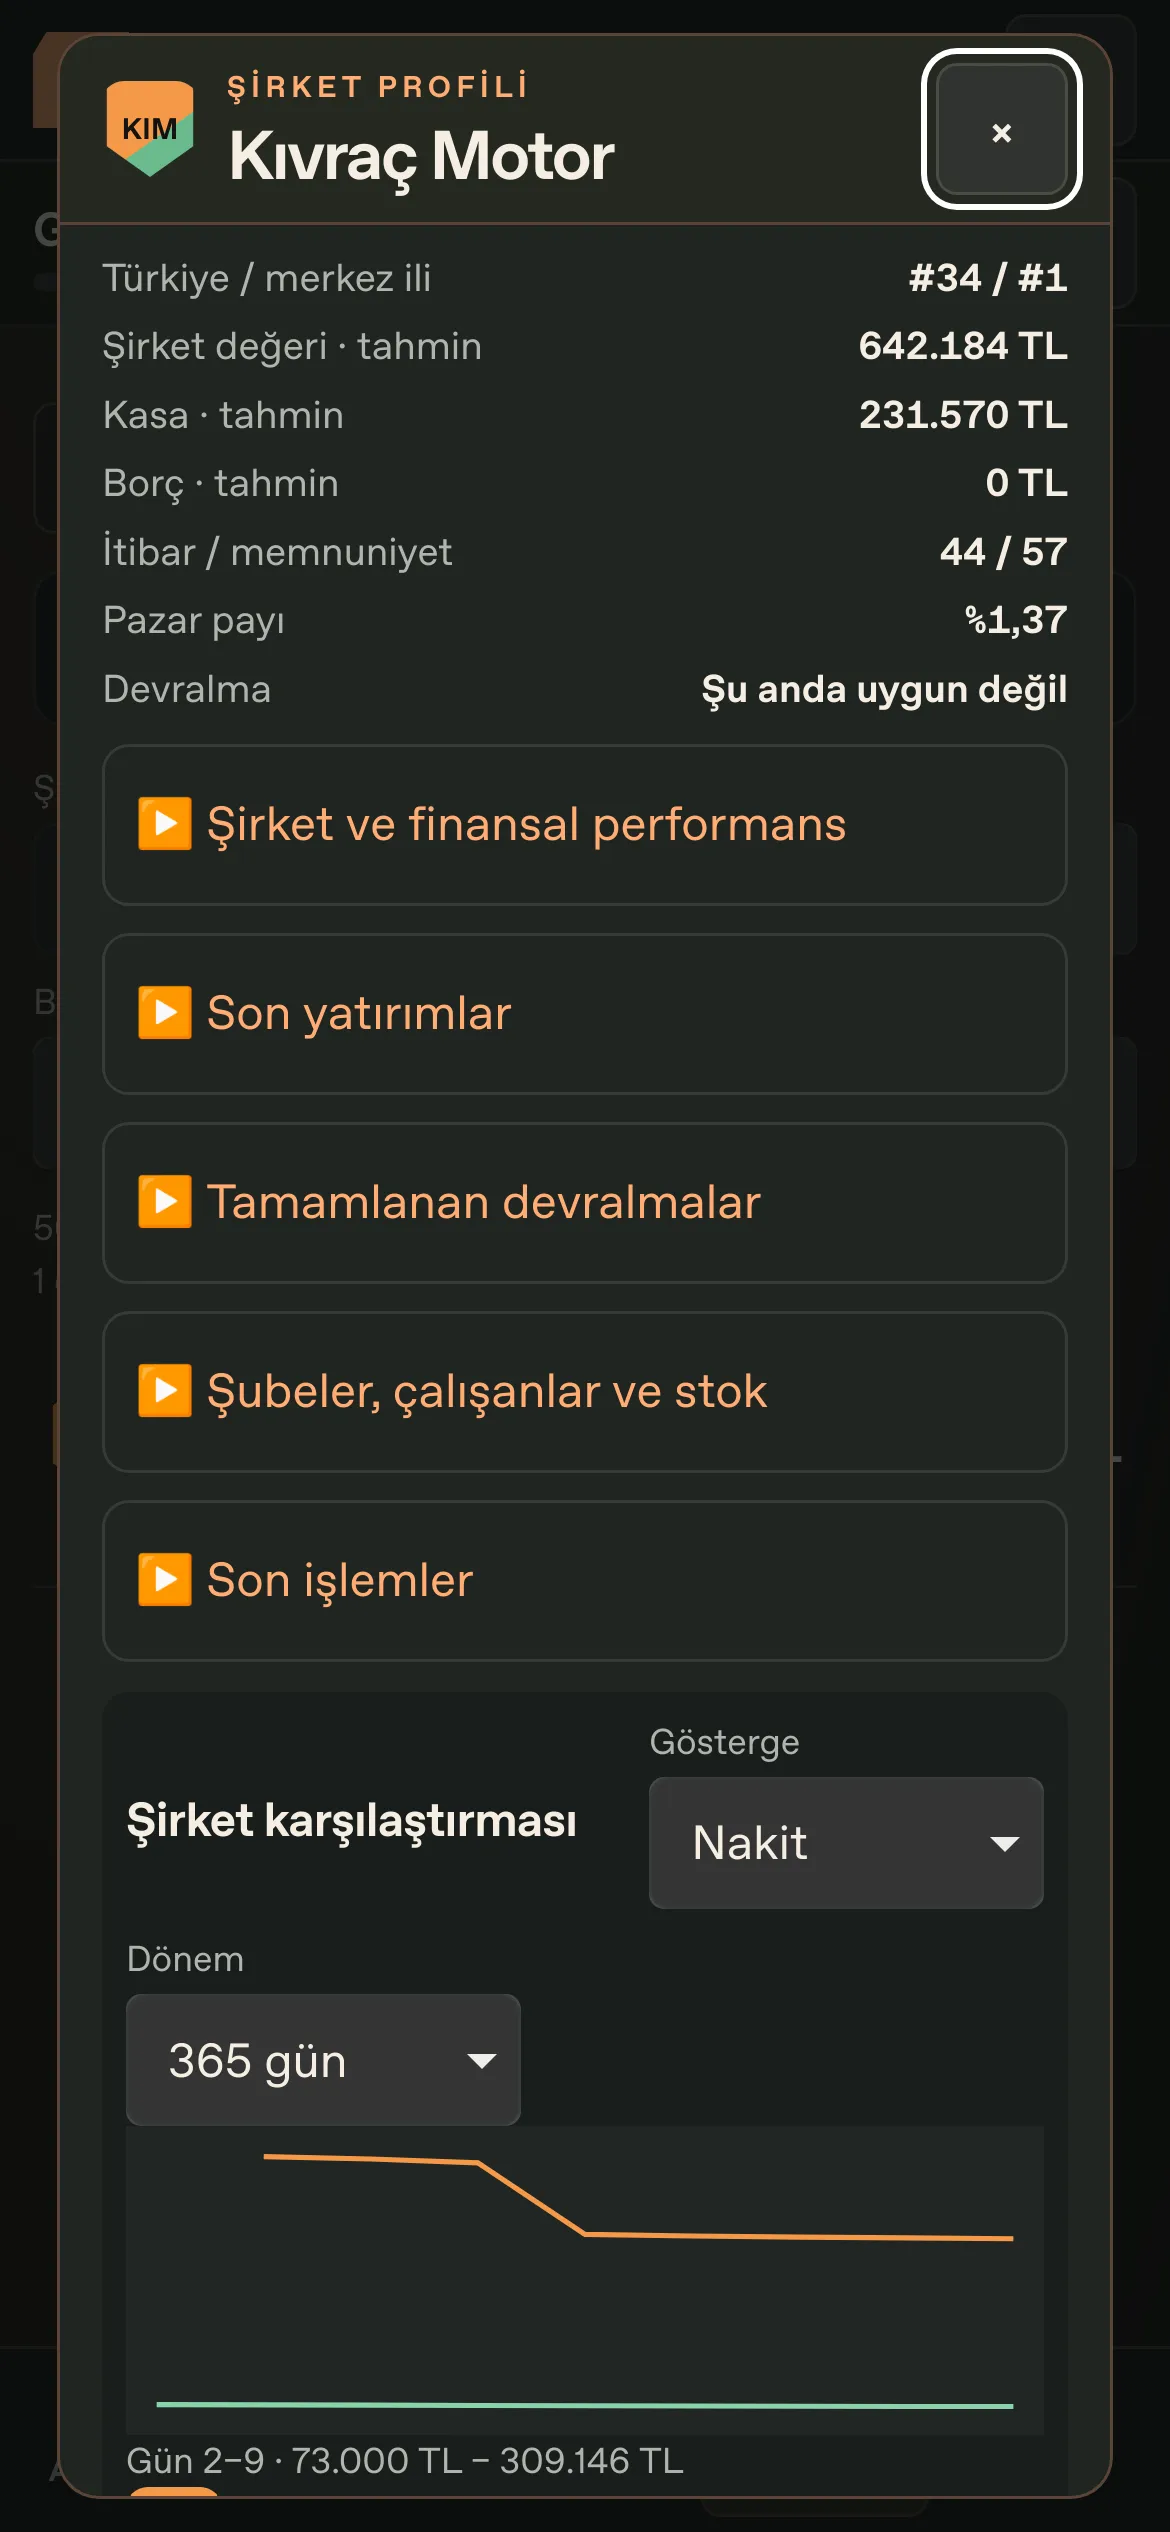
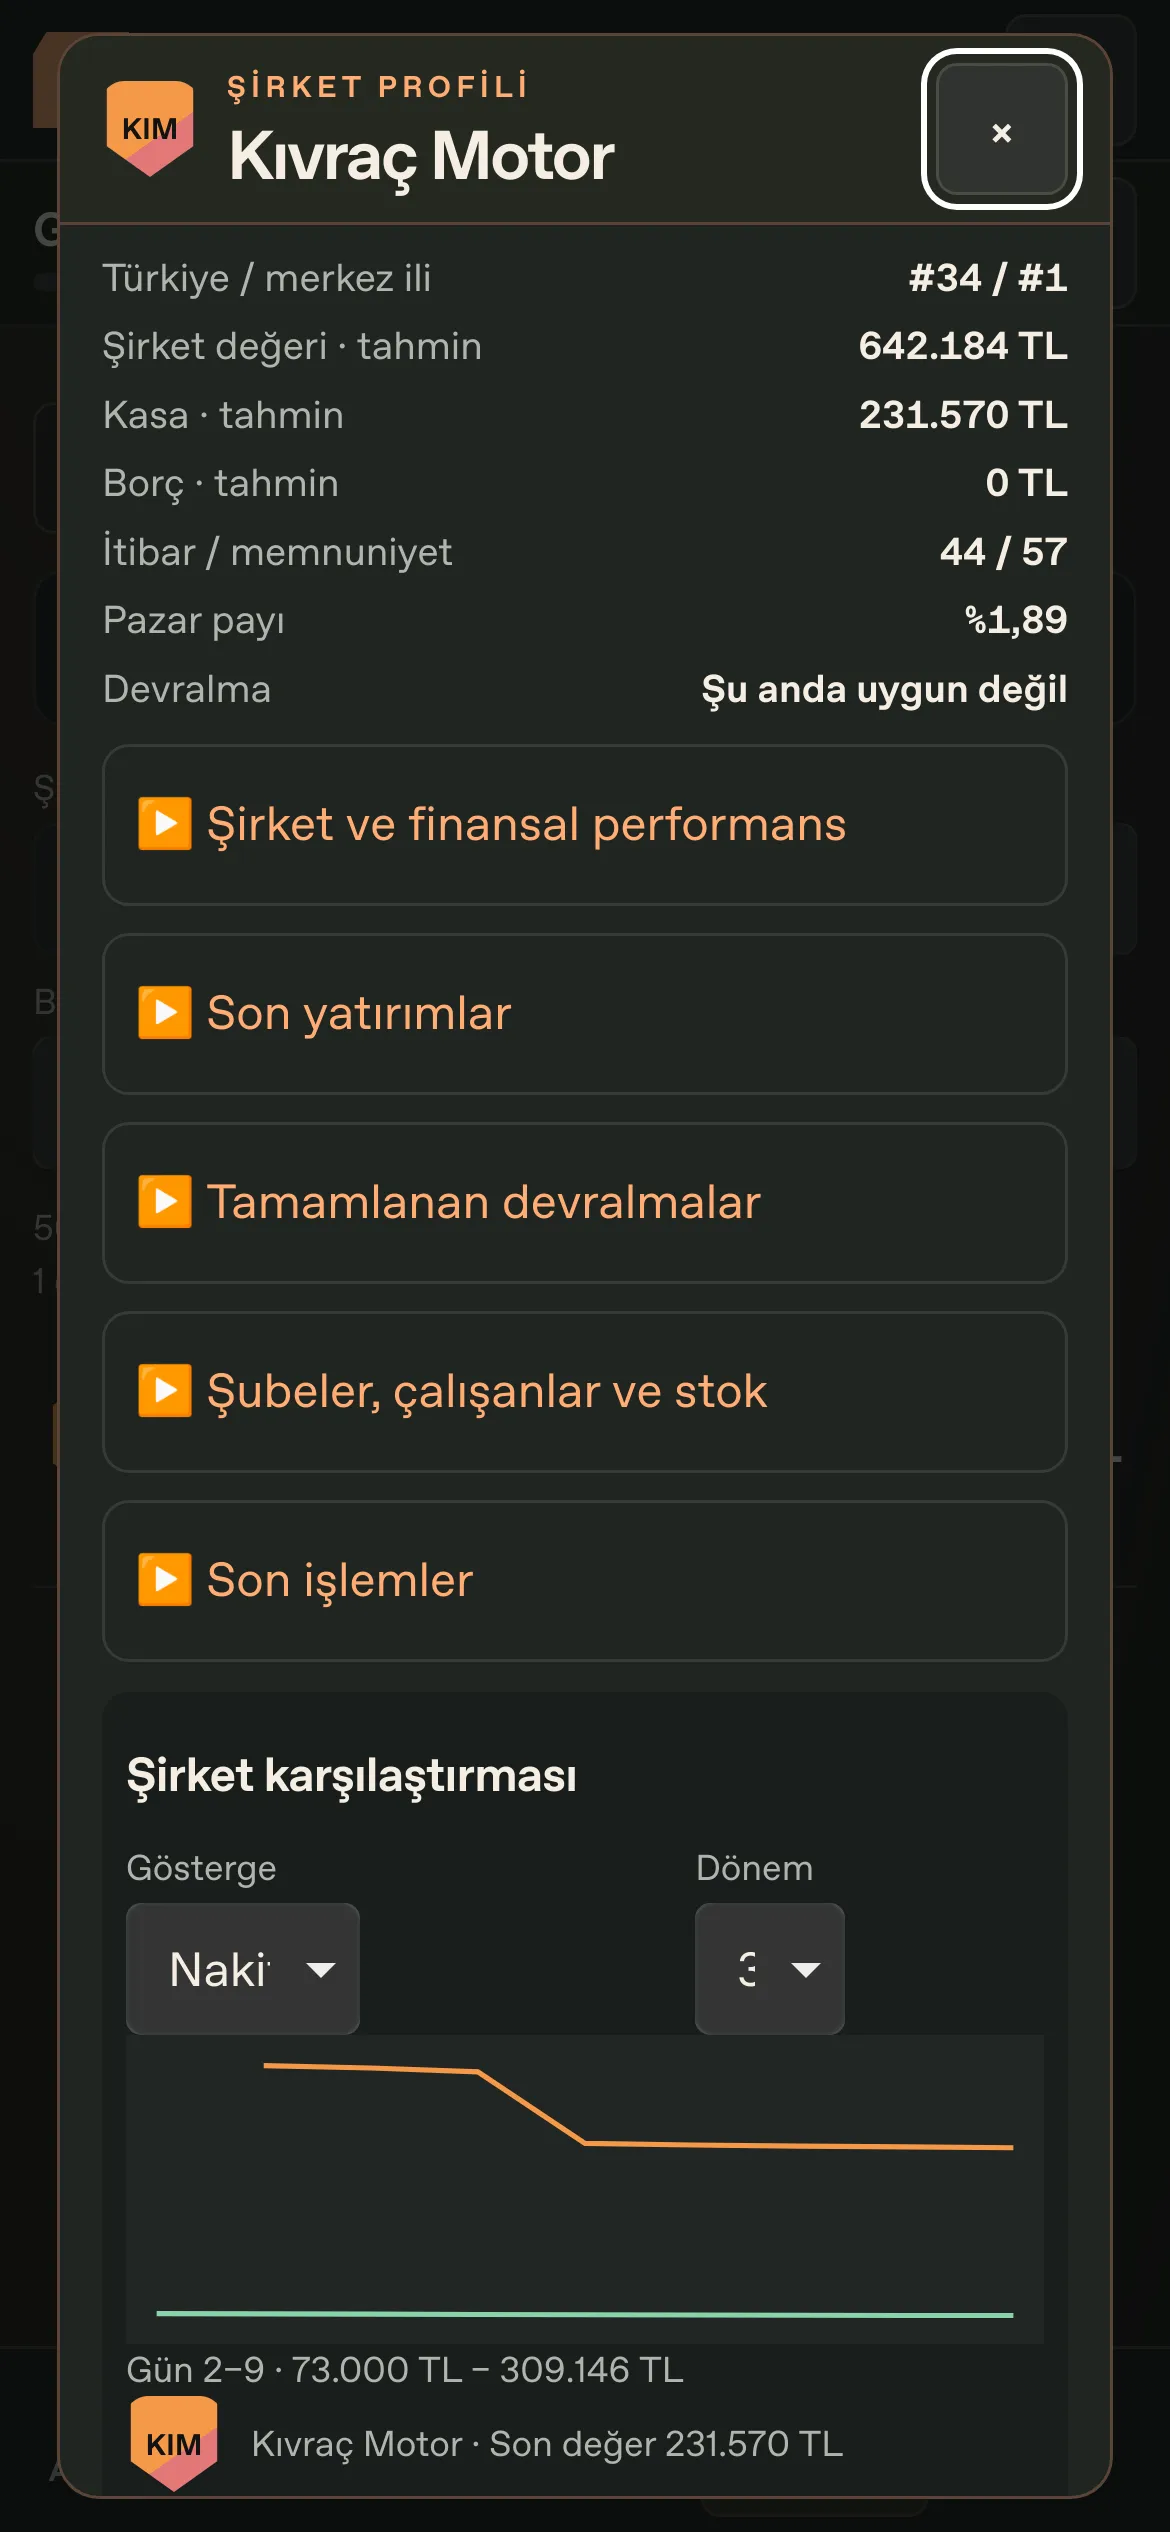
Record mobile verification and paired 1,000-day economy simulations

diff --git a/docs/v0182-report.md b/docs/v0182-report.md
@@ -1,0 +1,54 @@
+# v0.18.2 rekabet ve şirket kimliği doğrulaması
+
+Karşılaştırma tabanı v0.18.1 main `0b3fe50`. Her iki sürümde aynı başlangıç sermayesi, oynama sıklığı, şube açılışı ve otomasyon ayarları kullanıldı. Pasif ve manuel oyun 75.000 TL ile başladı. Tek şubeli otomasyon 1 milyon TL ile başladı. Çok şubeli senaryo 6,5 milyon TL ile İstanbul, Çanakkale, Ankara ve İzmir’de çalıştı. Alt sermayeli ve ulusal rakipler, her senaryoda aynı dünyada yer aldı. Makroekonomi büyüme, denge, durgunluk, kriz ve toparlanma dönemlerini kapsadı.
+
+## Ayrı rakip motoru
+
+| Gün | Aktif | Yeni | İflas | Rakipler arası devralma | Ortalama şirket değeri | Ortalama birikimli net kâr | Satış | En büyük pay |
+| ---: | ---: | ---: | ---: | ---: | ---: | ---: | ---: | ---: |
+| 30 | 51 | 1 | 0 | 0 | 2.041.099 TL | 11.295 TL | 359 | %5,85 |
+| 90 | 52 | 2 | 0 | 0 | 2.054.581 TL | 51.724 TL | 1.430 | %9,62 |
+| 365 | 42 | 15 | 22 | 1 | 2.526.857 TL | 8.304 TL | 5.071 | %8,36 |
+| 1.000 | 47 | 60 | 42 | 21 | 7.013.148 TL | 3.520.709 TL | 18.104 | %13,03 |
+
+Önceki motor 1.000 günde 63 aktif şirket, 19 yeni şirket, 6 iflas ve 20.348 satış üretti. Ortalama şirket değeri 9,76 milyon TL ve en büyük son 30 günlük satış payı %2,99’du. Yeni motorda ortanca pay %1,10. Fiyat / güncel değer aralığı 0,740–1,082. Toplam satış ve kiralama cirosu 3,69 milyar TL. Oyuncusuz koşuda rekabet kaydı 1.120.780 UTF-8 bayt, masaüstü Node.js motor çalışması ortalama 1,34 ms ve p95 1,81 ms. Süre tüm oyun ve arayüz döngüsünü kapsamaz.
+
+Her gün kasa hareketleri ve bilanço eşleşti. İşlenen satış ID’leri tekrarlanmadı. Stok ve rezervasyonlar şube kapasitesini aşmadı. Satış fiyatında il talebi, o ildeki hazır stok, satın alma gücü ve ürün fiyatı kullanılır. Ayar öncesi prototipte en büyük rakip 1.000 günde 424 milyon TL’ye çıktı. Yerel müşteri havuzu eklendikten sonra pasif koşuda 45,77 milyon TL oldu. Test edilen koşu tekel göstermedi. Pazar payı yoğunlaşması ve iflas sıklığı fiziksel oyuncu verileriyle izlenmeli.
+
+## Oyuncu profillerinde 1.000. gün
+
+Tutarlar TL. Her hücre v0.18.1 → v0.18.2 sırasındadır. Pazar payı son 30 günlük satış adedi üzerinden hesaplandı.
+
+| Profil | Oyuncu net varlığı | Oyuncu satışı | Oyuncu payı | En güçlü rakibin net varlığı | Rakip satışı |
+| --- | ---: | ---: | ---: | ---: | ---: |
+| Pasif | −175.000 → −175.000 | 0 → 0 | %0 → %0 | 32.395.255 → 45.770.306 | 20.348 → 18.104 |
+| Manuel | −132.155 → −132.155 | 5 → 5 | %0 → %0 | 32.385.896 → 56.146.139 | 20.343 → 18.088 |
+| Tek şube otomasyon | 15.058.802 → 14.884.560 | 345 → 343 | %1,02 → %1,18 | 32.410.378 → 52.702.838 | 20.384 → 18.096 |
+| Dört şube otomasyon | 85.792.328 → 84.004.923 | 2.729 → 2.722 | %7,37 → %8,63 | 32.408.021 → 41.926.169 | 20.619 → 17.947 |
+
+30, 90, 365 ve 1.000 günün tamamında oyuncu nakit farkı 0 TL. Aktif rakiplerde de kasa ve varlık farkı 0 TL. Devralan rakibin ödediği toplam bedel, devraldığı kasa ve borç ayrı kaydedildi. Yeni oyuncu korumasının kapsamı değişmedi. Pasif ve seyrek manuel oyun her iki sürümde giderler ve sınırlı alım fırsatları nedeniyle aynı net serveti verir. Otomasyonun seçici alımlardan kaynaklanan yüksek birikimli getirisi bu kapsamda yeniden fiyatlandırılmadı.
+
+Her kontrol noktasının oyuncu ve en değerli on rakibi, alım/satım, kasa, borç, ciro, net kâr, kâr marjı, şube ve personel sayısı, pay ve işlem süreleri ham raporlarda yer alır. v0.18.1 rakiplerin toplam alımını saklamadığından eski sütun `null` içerir. [v0.18.1 veri seti](v0182/v0181-profiles.json) · [v0.18.2 veri seti](v0182/v0182-profiles.json)
+
+## Otomatik testler
+
+148 Node.js, 42 Playwright WebKit ve 7 Chromium grafik senaryosu geçti. 98 katalog ve 2D dosyası bütünlük denetiminde korundu. WebKit boyutları 320×568, 390×844 ve 844×390. Mobil testler şirket logosu, yeniden yüklemede migrasyon, eski haber etiketi, 365 günlük grafik kontrolü ve oyuncu devralma onayını kapsadı.
+
+## Sınırlar
+
+- Rakipler v0.16 fiyat referansını ve ortak gider tarifelerini kullanıyor. Ayrı tedarik havuzu, günlük iş planı ve borç koşulları oyuncunun saatlik kuyruğu, perakende ilanları ve kredi seçeneklerinden farklı. Rakip firmaların personeli rol bazında takip ediliyor.
+- 1.000 günlük dört şubeli stres koşusunda tam oyun JSON’u v0.18.1’de 9.449.804, v0.18.2’de 9.692.140 UTF-8 bayta ulaştı. Bu koşu bellekte işletildi. Fiziksel Safari localStorage kotası ve bu boyutta kaydetme doğrulanmadı. Uzun dönem oyuncu finans arşivinin depolamaya etkisi açık.
+- Oyun içi şirket adlarının üretimi normalize edilmiş benzerlik testinden geçiyor. Marka sicili veya yasal ticari isim uygunluğu araştırılmadı.
+- Fiziksel iPhone testi yok. WebKit cihaz boyutu, emüle dokunma ve yatay taşma değerlendirildi.
+
+## Görüntüler ve yeniden üretim
+
+v0.18.1 [önceki mobil profil](v0181/rival.webp). v0.18.2 [Özet](v0182/summary.webp) · [Rakipler](v0182/rivals.webp) · [Profil ve karşılaştırma](v0182/profile.webp) · [Sıralama](v0182/ranks.webp) · [320 piksel devralma](v0182/acquisition.webp).
+
+```sh
+node --test --test-isolation=none
+node tests/rival-simulation.mjs
+node tests/competition-v0182.mjs
+MOTOR_SIM_ROOT=/yol/v0181 node tests/competition-v0182.mjs
+PLAYWRIGHT_MODULE=/yol/playwright node --test tests/live-prices.browser.mjs
+```

diff --git a/PROJECT_STATE.md b/PROJECT_STATE.md
@@ -43,3 +43,5 @@ Yusuf Belge kurgusal bir satıcıdır. İstanbul'da 120 oyun günlük her blokta
 - **Kanıtlar** [v0.18.1 testleri ve karşılaştırmaları](docs/v0181-hotfix.md) · [Önceki garaj karşılaştırması](docs/v01701-comparison.md)
 
 - **Teknik not** [Rakip ekonomisi ve kimlik migrasyonu](docs/rival-economy.md) · [v0.18.2 ölçümleri, testler ve açık noktalar](docs/v0182-report.md).
+
+- **v0.18.2 doğrulaması** 148 Node.js, 42 mobil WebKit ve 7 Chromium grafik testi geçti. 30/90/365/1.000 günlük dört profil, v0.18.1 ile birlikte karşılaştırıldı. 1.000 gün dört şube koşusunda tam kayıt 9,69 MB olduğundan fiziksel Safari kayıt kotası ayrıca doğrulanmalı.

diff --git a/CHANGELOG.md b/CHANGELOG.md
@@ -4,6 +4,7 @@
 
 - Rakiplerde günlük çoklu alım ve satış, kadro ve nakit temelli iş planı, şube yatırımı, stok transferi ve rakipler arası devralma.
 - Kalıcı şirket kimliği, tek seferlik aktif şirket adı migrasyonu, CSS logoları ve dört dönemli, yedi göstergeli performans karşılaştırması.
+- 148 Node.js, 42 mobil WebKit ve 7 Chromium grafik testi geçti. Fiziksel iPhone testi bu sürümde yapılmadı.
 - [Ekonomi sonuçları ve mobil ekran görüntüleri](docs/v0182-report.md)
 
 ## v0.18.1
